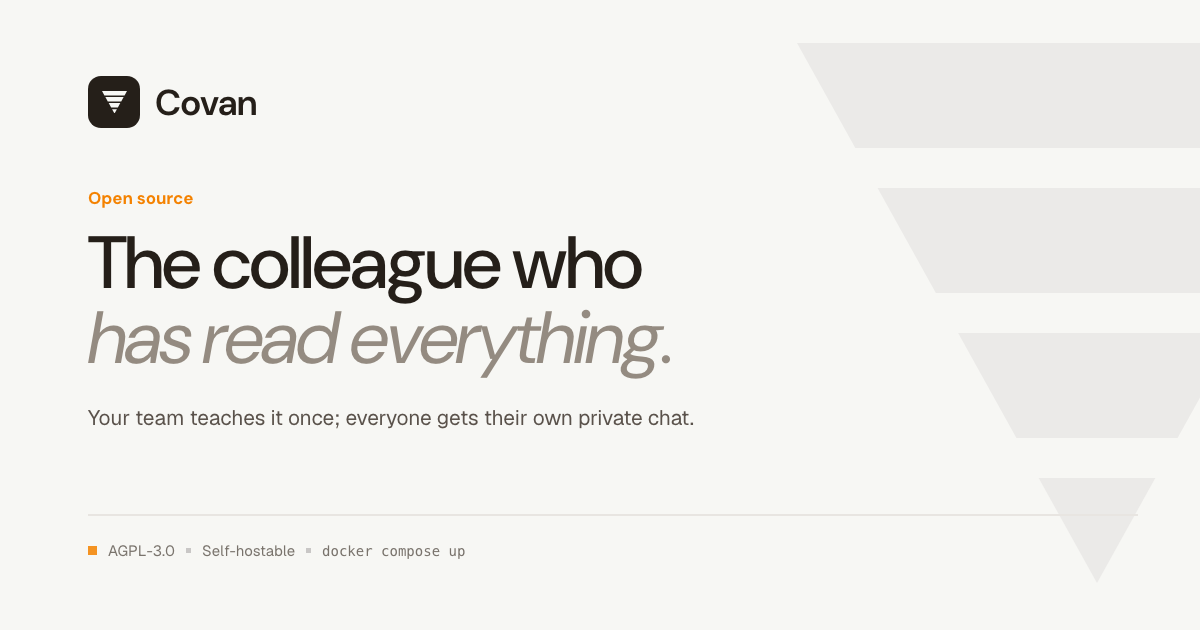
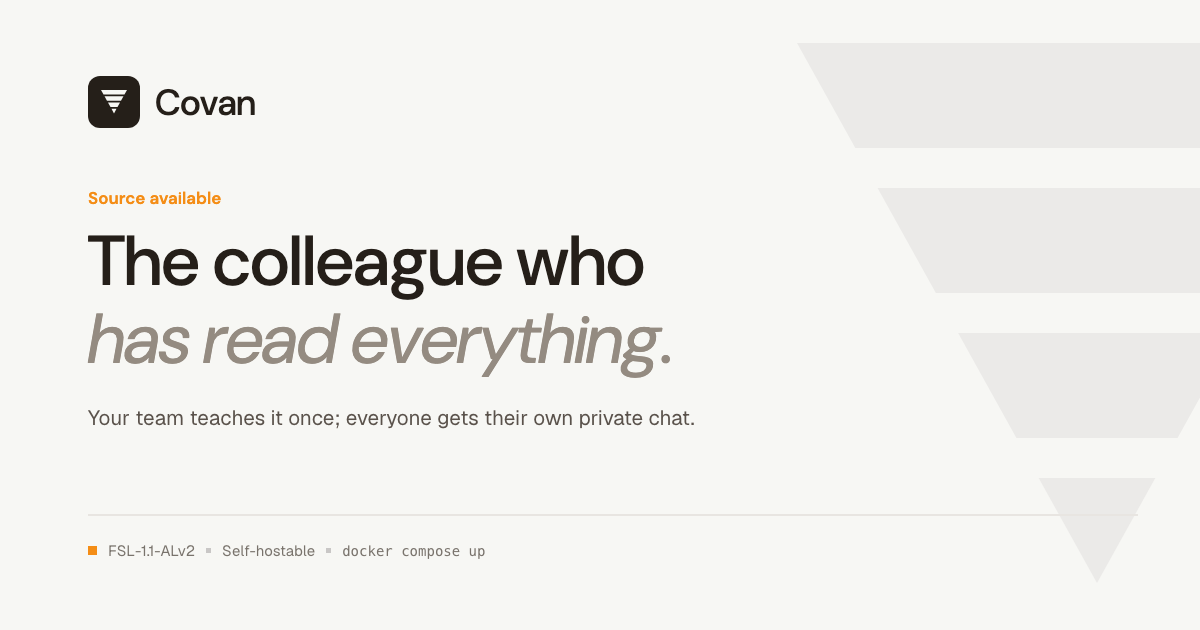
The social card says what the licence says
public/og.png still read "Open source" over the headline and
"AGPL-3.0 · Self-hostable · docker compose up" under it, on every
covan.app link that unfurls. The licence has been FSL-1.1-ALv2 since
2026-09-28, and the rest of the tree says "Source available". The card
now says that too, and the footer names the licence we actually ship.

The card had no source, so it is redrawn from one. d42b39a repainted
it pixel by pixel because Geist was not vendored then. It is now, so
scripts/generate-social-card.mjs writes the card as an HTML page using
the app's tokens and the fonts in public/fonts, and headless Chrome
screenshots it at exactly 1200x630. Every position, size and weight
was matched against the old PNG with the old words in place. Only the
two strings changed in spirit; edges differ by sub-pixel antialiasing.

Like scripts/fetch-fonts.mjs, the script is laptop-only and not wired
into build or CI, because a build has no business needing a browser.
Run it with `bun run og`, commit the PNG, and bump the `?v=` on
og:image. That cache-buster moves to v=3 here, so Slack, X and
LinkedIn fetch the new card instead of serving the cached one.

Closes #269

diff --git a/src/routes/__root.tsx b/src/routes/__root.tsx
@@ -116,12 +116,12 @@ export const Route = createRootRouteWithContext<{ queryClient: QueryClient }>()(
       // reason: Slack, X and LinkedIn cache a scraped card by URL and will keep
       // serving the old artwork long after the file changes. Bump it whenever
       // og.png is redrawn.
-      { property: "og:image", content: "/og.png?v=2" },
+      { property: "og:image", content: "/og.png?v=3" },
       { property: "og:image:width", content: "1200" },
       { property: "og:image:height", content: "630" },
       { property: "og:image:alt", content: "Covan — the colleague who has read everything" },
       { name: "twitter:card", content: "summary_large_image" },
-      { name: "twitter:image", content: "/og.png?v=2" },
+      { name: "twitter:image", content: "/og.png?v=3" },
     ],
     links: [
       {
